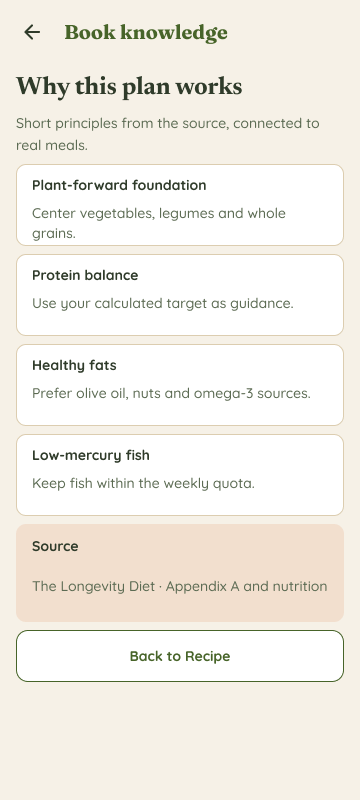
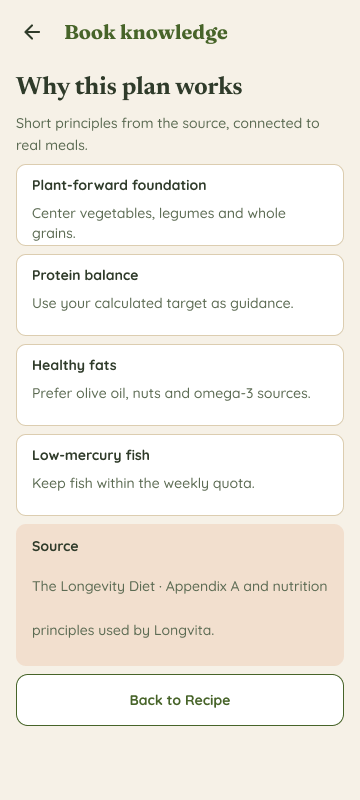
fix: resolve final member 3 UI review findings

Changed region(s): [[0.0306, 0.75, 0.9778, 0.9062]]

diff --git a/docs/member-3-ui-worklog.md b/docs/member-3-ui-worklog.md
@@ -1,8 +1,8 @@
 # Member 3 UI Designer & Prototyper Worklog
 
-**Project:** Longvita / PRM393  
-**Member:** Member 3 — UI Designer & Prototyper  
-**Date:** 21/10/2026  
+**Project:** Longvita / PRM393
+**Member:** Member 3 — UI Designer & Prototyper
+**Date:** 21/10/2026
 **Figma file:** `73GTcipwH825N7l501or8D`
 
 ## 1. Scope completed before prototype wiring
@@ -194,3 +194,11 @@ Final automated structure check returned:
 ## 14. Known non-blocking limitation
 
 The connected Figma tool can edit the shared file and configure prototype reactions, but it does not expose a command to create a named Version History milestone. The design changes are saved in the shared Figma file; if the rubric specifically requires named milestones in Version History, a team member should manually name the current milestone in the Figma UI before submission.
+## 15. Final whole-branch review fixes
+
+A separate final review after Tasks 1–10 found and corrected three release-blocking evidence issues before branch handoff:
+- `git diff --check` detected trailing whitespace in the worklog header; the three affected lines were normalized.
+- The S01/S04 meal-card provenance badge had been accidentally overwritten to `Planned` while a separate `Pending` status remained visible. The provenance label was restored to `From Book` across masters, state/QA copies and prototype clones; `Pending` remains the independent meal status.
+- The S09 citation body contained the full source text but its 98px parent card clipped the second line. Citation containers were expanded to 142px with 14px bottom padding in the master, 412dp QA copy and prototype clone.
+
+The affected S01, S04 and S09 PNG deliverables were re-exported from the corrected Final UI masters before the final verification run.
